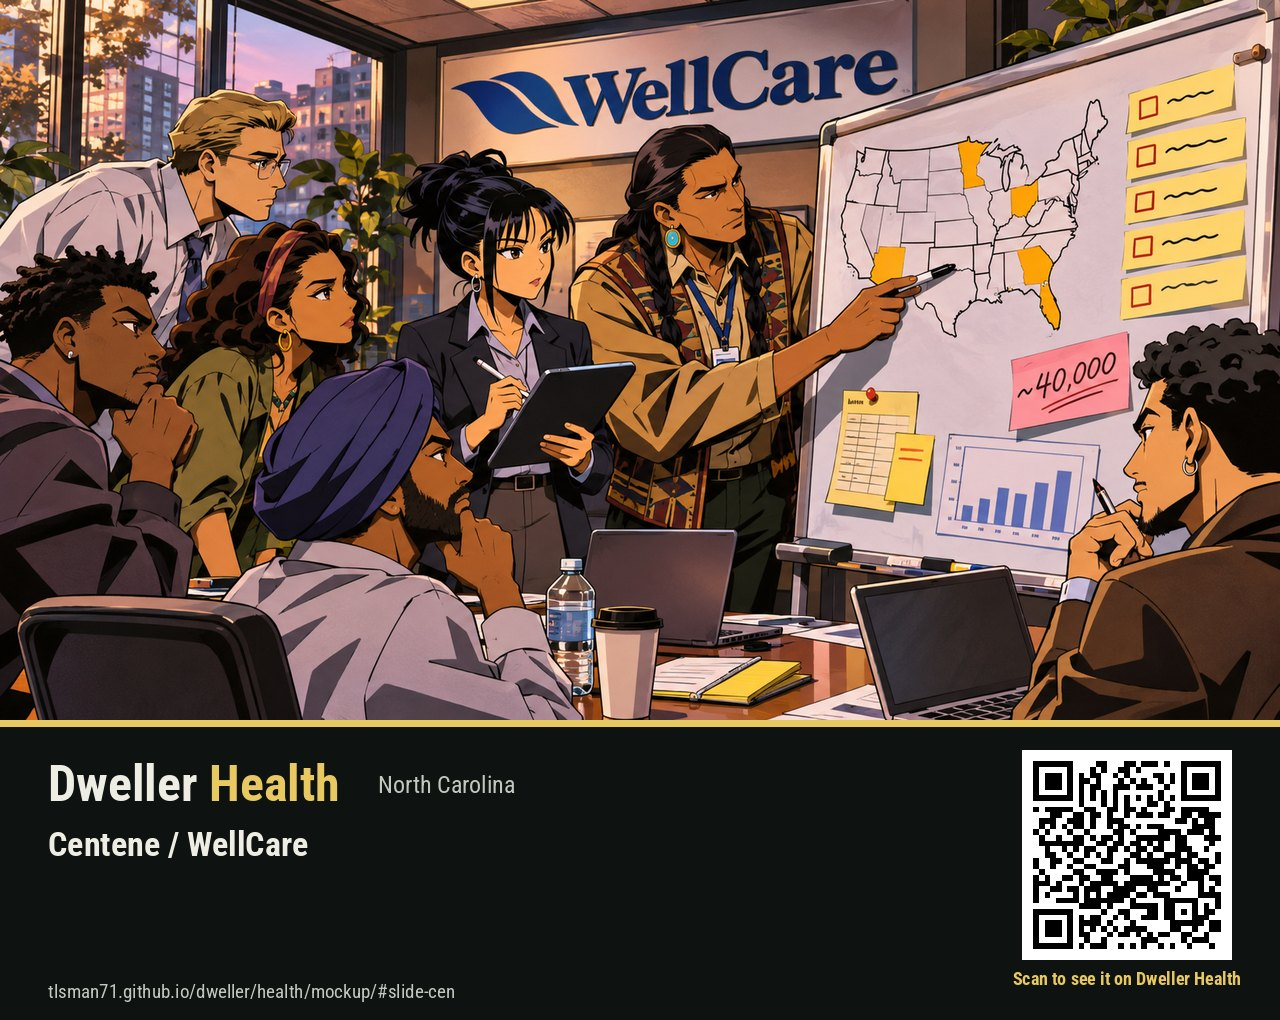
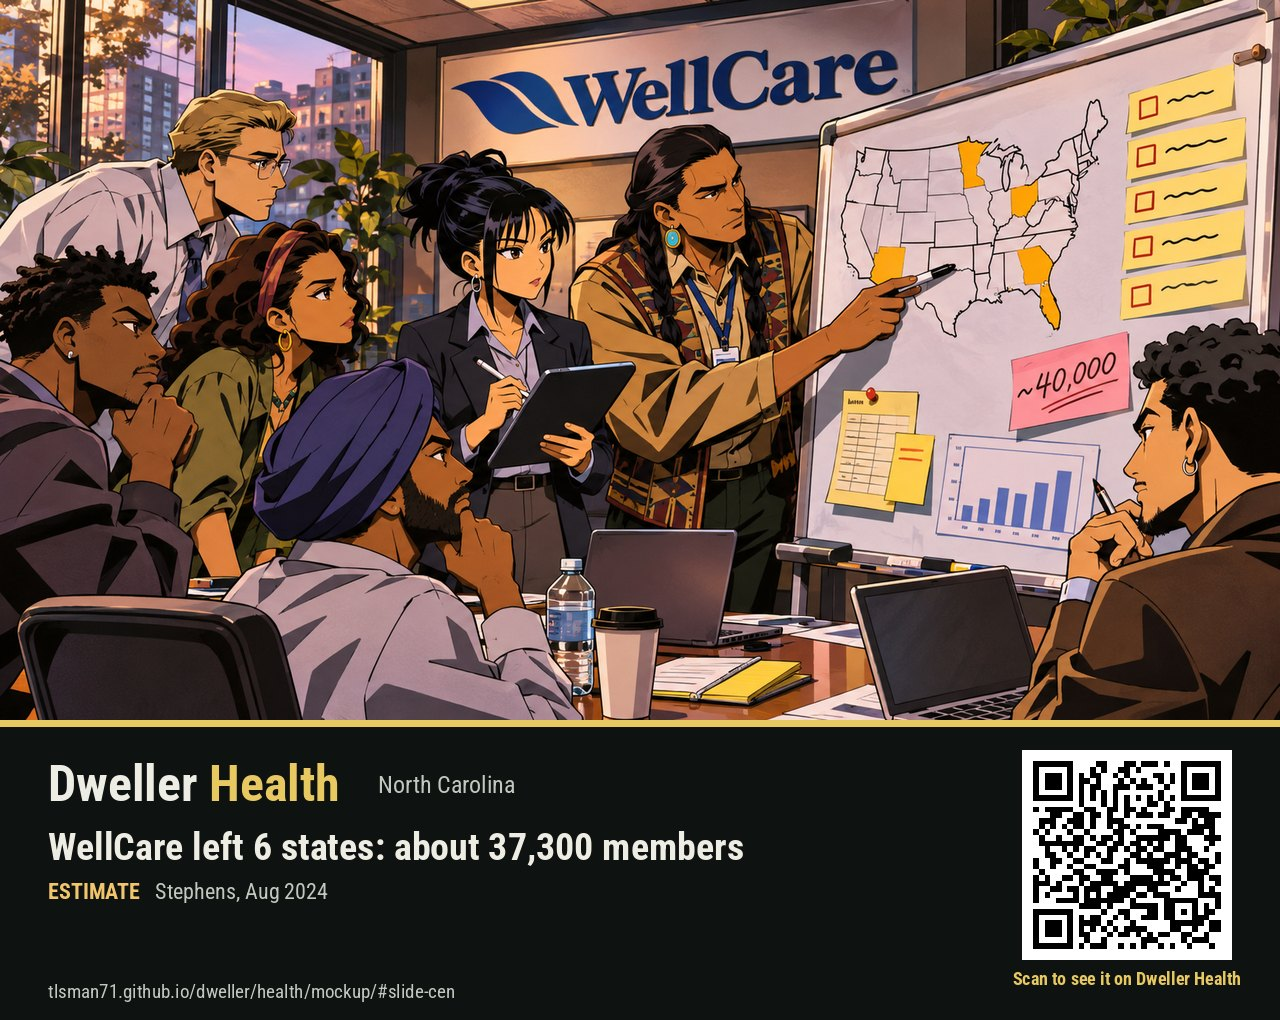
Dweller Health slides: publish tax, unh, r_kff redraws and cen caption (Tom, Nov 15 19:22)
Approved: node-tax-v2, node-unh-v2, node-r_kff-v2 (picture + caption), caption-node-cen-v2.
Slide show now has 15 pictures, all with captions. Builder reads <id>-v<N> masters
for redrawn pictures.

Claude-Session: https://claude.ai/code/session_01N4HRhx3dSD52yBqj3MMuLm

Changed region(s): [[0.0312, 0.8206, 0.5938, 0.8814]]

diff --git a/health/drawings/drawings.js b/health/drawings/drawings.js
@@ -91,8 +91,9 @@ window.DH_DRAWINGS = {
     "url": "https://crr.bc.edu/medicare-finances-a-perspective-on-the-2026-trustees-report/"
    },
    "image": {
-    "status": "waiting",
+    "status": "approved",
     "version": 2,
+    "approved_on": "2026-11-15",
     "review_id": "node-tax-v2"
    },
    "caption": {
@@ -233,13 +234,16 @@ window.DH_DRAWINGS = {
     "url": "https://www.sec.gov/Archives/edgar/data/731766/000073176624000023/a2023q4exhibit991.htm"
    },
    "image": {
-    "status": "waiting",
+    "status": "approved",
     "version": 2,
+    "approved_on": "2026-11-15",
     "review_id": "node-unh-v2"
    },
    "caption": {
-    "status": "waiting",
-    "version": 2
+    "status": "approved",
+    "version": 2,
+    "approved_on": "2026-11-15",
+    "review_id": "node-unh-v2"
    },
    "headline": "UnitedHealth: $22.4 billion in 2023 earnings",
    "source_short": "UnitedHealth Group, Jan 2024"
@@ -308,8 +312,10 @@ window.DH_DRAWINGS = {
     "review_id": "illus-node-cen-v1"
    },
    "caption": {
-    "status": "waiting",
-    "version": 2
+    "status": "approved",
+    "version": 2,
+    "approved_on": "2026-11-15",
+    "review_id": "caption-node-cen-v2"
    },
    "headline": "WellCare left 6 states: about 37,300 members",
    "source_short": "Stephens, Aug 2024"
@@ -463,13 +469,16 @@ window.DH_DRAWINGS = {
     "url": "https://www.kff.org/medicare/press-release/medicare-advantage-insurers-report-much-higher-gross-margins-per-enrollee-than-insurers-in-other-markets/"
    },
    "image": {
-    "status": "waiting",
+    "status": "approved",
     "version": 2,
+    "approved_on": "2026-11-15",
     "review_id": "node-r_kff-v2"
    },
    "caption": {
-    "status": "waiting",
-    "version": 2
+    "status": "approved",
+    "version": 2,
+    "approved_on": "2026-11-15",
+    "review_id": "node-r_kff-v2"
    },
    "headline": "Advantage margins: $1,730 a member, double other markets",
    "source_short": "KFF, Feb 2023"

diff --git a/health/tools/build_drawings.py b/health/tools/build_drawings.py
@@ -8,7 +8,7 @@ Reads health/drawings/drawings.js. For every slide whose image Tom approved:
   - health/drawings/share/<id>.jpg   share card: the image, the Dweller Health name, the caption
                                      (only once Tom approved it), a QR code and the link back to the slide
 Files for slides that are not approved are removed, so nothing unapproved is published.
-Masters (dweller-health-drawing-<id>.webp) stay off the repo.
+Masters (dweller-health-drawing-<id>.webp; redraws <id>-v<N>.webp) stay off the repo.
 
 Needs: pip install pillow qrcode fonttools brotli
 """
@@ -90,7 +90,8 @@ def main():
     for s in cfg["slides"]:
         if s["image"]["status"] != "approved":
             continue
-        src = Path(a.masters) / f"dweller-health-drawing-{s['id']}.webp"
+        v = s["image"].get("version", 1)
+        src = Path(a.masters) / (f"dweller-health-drawing-{s['id']}-v{v}.webp" if v > 1 else f"dweller-health-drawing-{s['id']}.webp")
         if not src.exists():
             missing.append(str(src)); continue
         pic = fit(Image.open(src))
